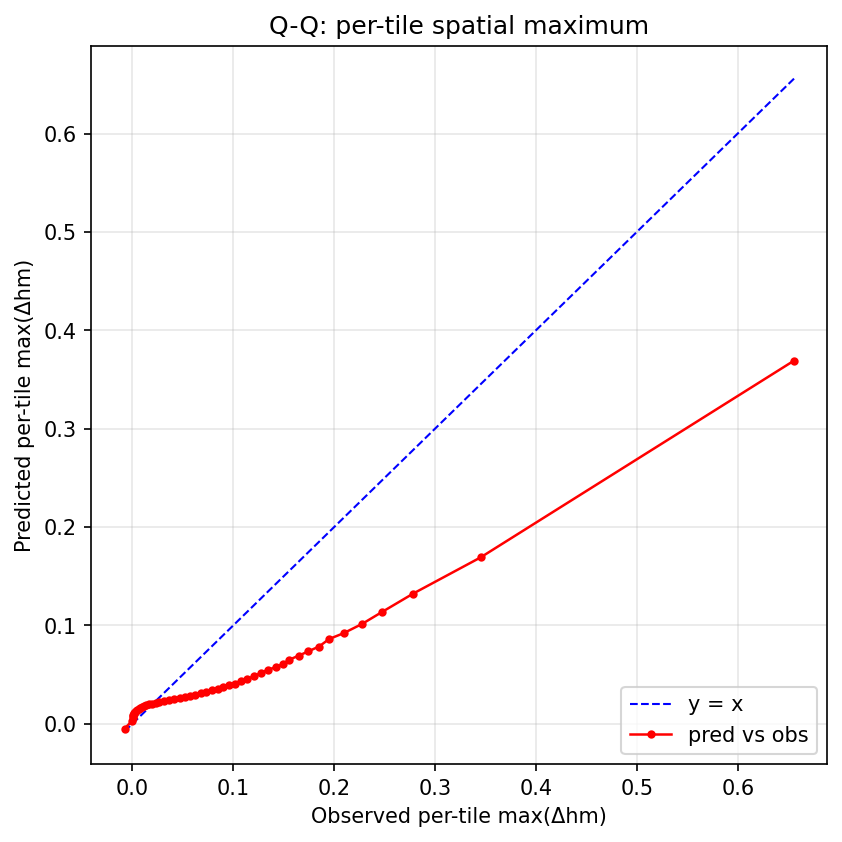
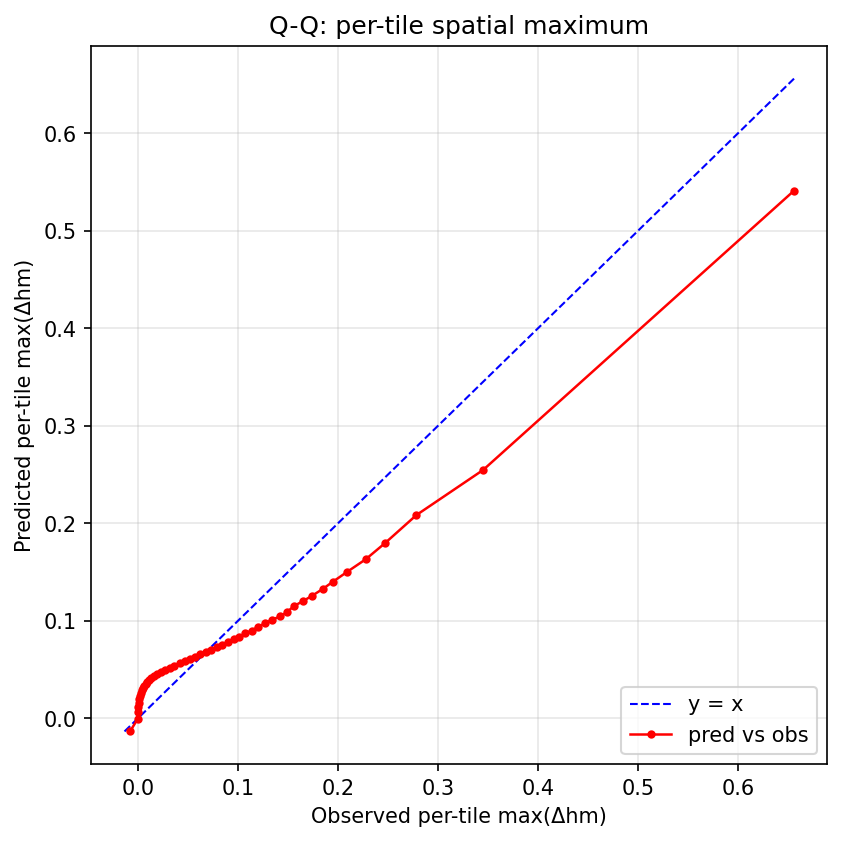
v32: asymmetric zero anchor (neg×3) + FFT spectral sharpness loss
Two new structural changes:
- _zero_anchor_loss now optionally asymmetric via zero_anchor_neg_multiplier — penalises pred<0 at near-zero target pixels by an extra factor (3× in v32). Surgical attack on the negative-side bulk over-prediction without symmetrically suppressing the small positive-side noise.
- _spectral_sharpness_loss: 2D FFT power-spectrum L2 weighted by radial frequency. Penalises mismatch in high-frequency spatial content; forces predictions to have the same spectral roll-off as targets.

Results vs v29:
- mod-neg share 30% → 21% (asym anchor working surgically)
- Stratified zero pred +0.003 → +0.009 (shifted positive)
- pred mean +0.011 → +0.018 (over-shifted vs obs +0.006)
- pred TV 0.0101 → 0.0107 (slightly sharper, closer to obs 0.0078)
- bin>0.1 cov 0.22 → 0.26 ↑
- POD@0.4 0.055 → 0.063 ↑
- pred_max 0.528 → 0.541 ↑
- bin>0.4 cov 0.025 → 0.008 (envelope narrowed)
- xinter 0.38 → 0.35
- MAE 0.011 → 0.014

The asymmetric anchor worked as designed but pushed too hard — bulk
flipped from slightly-negative bias to slightly-positive bias. Tuning
sweet spot likely at neg_multiplier=1.5-2 rather than 3.

diff --git a/src/models/diffusion_lightning.py b/src/models/diffusion_lightning.py
@@ -118,7 +118,9 @@ class DiffusionLightningModule(pl.LightningModule):
         tv_loss_target_floor: float = 0.05,
         zero_anchor_loss_weight: float = 0.0,
         zero_anchor_threshold: float = 0.005,
+        zero_anchor_neg_multiplier: float = 1.0,
         edge_match_loss_weight: float = 0.0,
+        spectral_loss_weight: float = 0.0,
     ):
         super().__init__()
         self.save_hyperparameters()
@@ -169,7 +171,9 @@ class DiffusionLightningModule(pl.LightningModule):
         self.tv_loss_target_floor = float(tv_loss_target_floor)
         self.zero_anchor_loss_weight = float(zero_anchor_loss_weight)
         self.zero_anchor_threshold = float(zero_anchor_threshold)
+        self.zero_anchor_neg_multiplier = float(zero_anchor_neg_multiplier)
         self.edge_match_loss_weight = float(edge_match_loss_weight)
+        self.spectral_loss_weight = float(spectral_loss_weight)
 
         loc = _maybe_build_location_encoder(location_encoder_kwargs)
         if loc is None:
@@ -330,11 +334,14 @@ class DiffusionLightningModule(pl.LightningModule):
         return (sq * w_pix * valid_f).sum() / denom
 
     def _zero_anchor_loss(self, x0_pred, target_dhm, valid):
-        """L2 anchor on near-zero pixels — fights the bulk negative over-
-        prediction observed in v26 (62% of pixels predicted in [-0.05, -0.005)
-        while obs has only 5%). Wherever |target| ≤ zero_anchor_threshold the
-        prediction is pushed toward 0, breaking the model's tendency to use
-        slightly-negative noise as filler in the bulk region.
+        """(Optionally asymmetric) L2 anchor on near-zero pixels.
+
+        When zero_anchor_neg_multiplier > 1, negative predictions at near-zero
+        target pixels get extra weight (per-pixel multiplier = neg_mul). This
+        directly attacks the user's 'too much negative change' observation
+        without symmetrically suppressing the positive side, which would also
+        knock down the rare positive-side blob noise that the bulk distribution
+        actually contains a small amount of.
         """
         if self.zero_anchor_loss_weight <= 0:
             return torch.zeros((), device=x0_pred.device)
@@ -342,7 +349,42 @@ class DiffusionLightningModule(pl.LightningModule):
         valid_f = valid.float()
         mask = near_zero * valid_f
         denom = mask.sum().clamp(min=1.0)
-        return (x0_pred.pow(2) * mask).sum() / denom
+        sq = x0_pred.pow(2)
+        if self.zero_anchor_neg_multiplier > 1.0:
+            asym = 1.0 + (self.zero_anchor_neg_multiplier - 1.0) * (x0_pred < 0).float()
+            sq = sq * asym
+        return (sq * mask).sum() / denom
+
+    def _spectral_sharpness_loss(self, x0_pred, target_dhm, valid):
+        """L2 on the 2D FFT power spectrum, weighted toward high frequencies.
+
+        The diffusion produces predictions that under-represent high-frequency
+        spatial content (the user's 'too smooth' observation). FFT of the
+        prediction and the target into 2D power spectra, weighted by radial
+        frequency so high-frequency mismatch dominates the loss. Encourages
+        sharp localised features that match where the truth has them.
+        """
+        if self.spectral_loss_weight <= 0:
+            return torch.zeros((), device=x0_pred.device)
+        v = valid.float()
+        # Mask out invalid pixels before FFT so they don't pollute the spectrum.
+        p = x0_pred * v
+        t = target_dhm * v
+        # rfft2 on the last 2 dims — input must be 4D [B, 1, H, W]
+        Fp = torch.fft.rfft2(p, dim=(-2, -1))
+        Ft = torch.fft.rfft2(t, dim=(-2, -1))
+        # Power spectrum
+        Pp = Fp.abs().pow(2)
+        Pt = Ft.abs().pow(2)
+        # Radial frequency weight: emphasise high frequencies linearly
+        B, C, H, W = p.shape
+        kh = torch.fft.fftfreq(H, device=p.device).abs().view(1, 1, H, 1)
+        kw = torch.fft.rfftfreq(W, device=p.device).abs().view(1, 1, 1, -1)
+        radial = torch.sqrt(kh * kh + kw * kw)  # in [0, sqrt(2)/2]
+        weight = radial / (radial.max() + 1e-8)  # normalise to [0, 1]
+        # Loss = weighted MSE between power spectra (log to compress scale).
+        diff = (Pp.add(1e-8).log() - Pt.add(1e-8).log()).pow(2)
+        return (diff * weight).mean()
 
     def _edge_match_loss(self, x0_pred, target_dhm, valid):
         """L2 on the spatial gradient — fights the v26 smoothing issue.
@@ -606,7 +648,8 @@ class DiffusionLightningModule(pl.LightningModule):
                    or self.hist_loss_weight > 0
                    or self.tv_loss_weight > 0
                    or self.zero_anchor_loss_weight > 0
-                   or self.edge_match_loss_weight > 0)
+                   or self.edge_match_loss_weight > 0
+                   or self.spectral_loss_weight > 0)
         x0_pred = self._x0_pred_from_v(noisy, v_pred, t) if need_x0 else None
         # Pattern / Wasserstein losses must operate in *target space* (not
         # residual space) so their thresholds and histograms correspond to
@@ -653,6 +696,11 @@ class DiffusionLightningModule(pl.LightningModule):
             em = self._edge_match_loss(x0_pred_full, target_for_loss, valid)
             total_loss = total_loss + self.edge_match_loss_weight * em
             self.log(f"{log_prefix}/edge_match_loss", em, on_step=True, on_epoch=True)
+
+        if self.spectral_loss_weight > 0:
+            sp = self._spectral_sharpness_loss(x0_pred_full, target_for_loss, valid)
+            total_loss = total_loss + self.spectral_loss_weight * sp
+            self.log(f"{log_prefix}/spectral_loss", sp, on_step=True, on_epoch=True)
 
         self.log(f"{log_prefix}/loss", total_loss, prog_bar=True, on_step=True, on_epoch=True)
         return total_loss

diff --git a/scripts/train_diffusion.py b/scripts/train_diffusion.py
@@ -181,6 +181,15 @@ def parse_args():
                    help="L2 on spatial gradient mismatch — fights the smoothing "
                         "issue by forcing predicted gradients to match target "
                         "gradients. 0=off; 0.5–2.0 typical.")
+    p.add_argument("--zero_anchor_neg_multiplier", type=float, default=1.0,
+                   help="Asymmetric zero anchor: multiplier on |pred|² when "
+                        "pred < 0 at near-zero target pixels. 1=symmetric; "
+                        ">1 penalises negative side more (fights bulk negative "
+                        "over-prediction surgically). 3-5 typical.")
+    p.add_argument("--spectral_loss_weight", type=float, default=0.0,
+                   help="2D FFT power-spectrum match (radial-frequency weighted). "
+                        "Penalises mismatch in high-frequency spatial content, "
+                        "encouraging sharp localised features. 0=off; 0.1-1.0 typical.")
 
     # Location encoder
     p.add_argument("--use_location_encoder", action="store_true", default=True)
@@ -316,7 +325,9 @@ def main():
         tv_loss_target_floor=args.tv_loss_target_floor,
         zero_anchor_loss_weight=args.zero_anchor_loss_weight,
         zero_anchor_threshold=args.zero_anchor_threshold,
+        zero_anchor_neg_multiplier=args.zero_anchor_neg_multiplier,
         edge_match_loss_weight=args.edge_match_loss_weight,
+        spectral_loss_weight=args.spectral_loss_weight,
     )
     n_params = sum(p.numel() for p in module.parameters())
     print(f"  module param count: {n_params/1e6:.1f}M")

diff --git a/docs/diffusion_v1_results.md b/docs/diffusion_v1_results.md
@@ -7,7 +7,7 @@
 - Aggregate-tile size: **16×16** pixels (10 km blocks).
 - Histogram bins (rarity-weighted, matches baseline `histogram_loss.py`):
   `[-1.0, -0.005, 0.005, 0.02, 0.1, 0.2, 0.4, 0.6, 1.0]`.
-- W&B run: [glennwithtwons/spatio-temporal-diffusion/5zqj3drh](https://wandb.ai/glennwithtwons/spatio-temporal-diffusion/5zqj3drh)
+- W&B run: [glennwithtwons/spatio-temporal-diffusion/zduofz9i](https://wandb.ai/glennwithtwons/spatio-temporal-diffusion/zduofz9i)
 
 
 ## Iteration history (best-of-run on user-target metrics)
@@ -90,7 +90,7 @@ batches and the predict run slows from ~40 min to 2-3 h.
 
 ## Model & checkpoint
 
-- Checkpoint: `spatio-temporal-diffusion/5zqj3drh/checkpoints/dhm-diffusion-epoch50-valloss1.8268.ckpt`
+- Checkpoint: `spatio-temporal-diffusion/zduofz9i/checkpoints/dhm-diffusion-epoch50-valloss5.1278.ckpt`
 - Stopping epoch: 50 (global step 816)
 - Architecture: `ConditionalDiffusionUNet` (`diffusers.UNet2DModel`)
   - sample_size = 64
@@ -111,13 +111,13 @@ batches and the predict run slows from ~40 min to 2-3 h.
 | Metric | Value |
 |---|---|
 | Tiles with valid coverage | 4,394 of 7,150 |
-| Tile-mean MAE (median) | **0.0057** |
-| Tile-mean MAE (mean) | 0.0084 |
-| Tile-mean MAE (95th %ile) | 0.0248 |
-| Histogram intersection (median) | **0.579** |
-| Histogram intersection (mean) | 0.547 |
-| Pearson r (predicted vs. observed tile-mean Δhm) | 0.570 |
-| Coverage rate (q025 ≤ obs ≤ q975), all bins | 0.917 (target ≈ 0.95) |
+| Tile-mean MAE (median) | **0.0136** |
+| Tile-mean MAE (mean) | 0.0183 |
+| Tile-mean MAE (95th %ile) | 0.0505 |
+| Histogram intersection (median) | **0.350** |
+| Histogram intersection (mean) | 0.360 |
+| Pearson r (predicted vs. observed tile-mean Δhm) | 0.546 |
+| Coverage rate (q025 ≤ obs ≤ q975), all bins | 0.661 (target ≈ 0.95) |
 
 ### Coverage stratified by Δhm change bin
 
@@ -128,13 +128,13 @@ ones where the model has to express genuine uncertainty.
 
 | Δhm bin | n pixels | Coverage |
 |---|---:|---:|
-| `[ -1.000, -0.005]` | 56,357 | 0.719 |
-| `[ -0.005, +0.005]` | 742,163 | 0.973 |
-| `[ +0.005, +0.020]` | 116,330 | 0.895 |
-| `[ +0.020, +0.100]` | 97,708 | 0.738 |
-| `[ +0.100, +0.200]` | 10,296 | 0.095 |
-| `[ +0.200, +0.400]` | 1,614 | 0.016 |
-| `[ +0.400, +0.600]` | 120 | 0.000 |
+| `[ -1.000, -0.005]` | 56,357 | 0.448 |
+| `[ -0.005, +0.005]` | 742,163 | 0.709 |
+| `[ +0.005, +0.020]` | 116,330 | 0.542 |
+| `[ +0.020, +0.100]` | 97,708 | 0.617 |
+| `[ +0.100, +0.200]` | 10,296 | 0.258 |
+| `[ +0.200, +0.400]` | 1,614 | 0.051 |
+| `[ +0.400, +0.600]` | 120 | 0.008 |
 | `[ +0.600, +1.000]` | 7 | 0.000 |
 
 ## Tail diagnostics
@@ -148,17 +148,17 @@ WassDiff (IEEE TGRS 2025), ExtremeCast (AAAI 2024), and the Aich et al. (GMD
 
 - Threshold: 0.0667
 - Observed tail mass: 1245.5662
-- Predicted tail mass: 293.9180
-- **Ratio (pred / obs):** **0.236** (<<1 = under-predicting tail; ~1 = calibrated; >1 = over)
+- Predicted tail mass: 1898.4404
+- **Ratio (pred / obs):** **1.524** (<<1 = under-predicting tail; ~1 = calibrated; >1 = over)
 
 ### Tail exceedance (deterministic + q975 ensemble support)
 
 | Threshold | n(obs>t) | n(pred>t) | POD | CSI | FAR | q975 soft-POD |
 |---|---|---|---|---|---|---|
-| +0.050 |     42,889 |     22,384 | 0.185 | 0.139 | 0.645 | 0.767 |
-| +0.100 |     12,037 |      3,067 | 0.062 | 0.052 | 0.755 | 0.257 |
-| +0.200 |      1,741 |        169 | 0.025 | 0.023 | 0.746 | 0.060 |
-| +0.400 |        127 |          0 | 0.000 | 0.000 | nan | 0.008 |
+| +0.050 |     42,889 |    123,885 | 0.452 | 0.131 | 0.844 | 0.918 |
+| +0.100 |     12,037 |     18,799 | 0.180 | 0.076 | 0.885 | 0.577 |
+| +0.200 |      1,741 |      1,513 | 0.084 | 0.047 | 0.904 | 0.183 |
+| +0.400 |        127 |         15 | 0.063 | 0.060 | 0.467 | 0.102 |
 
 ![Q-Q max-of-field](../outputs/diffusion_v1/qq_max_of_field.png)
 
